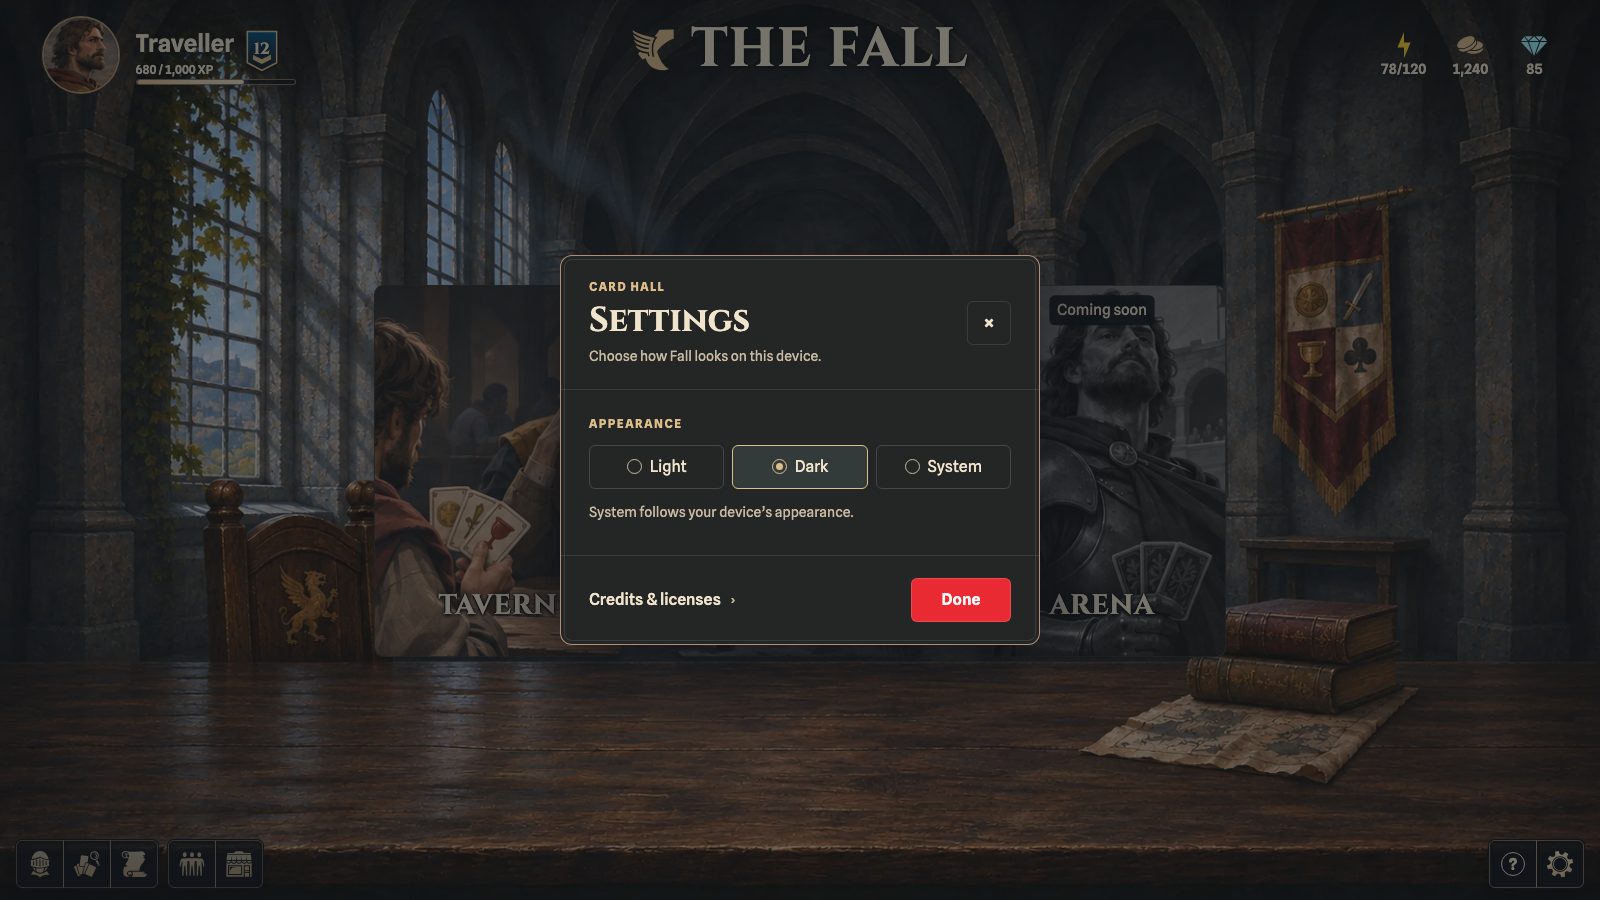
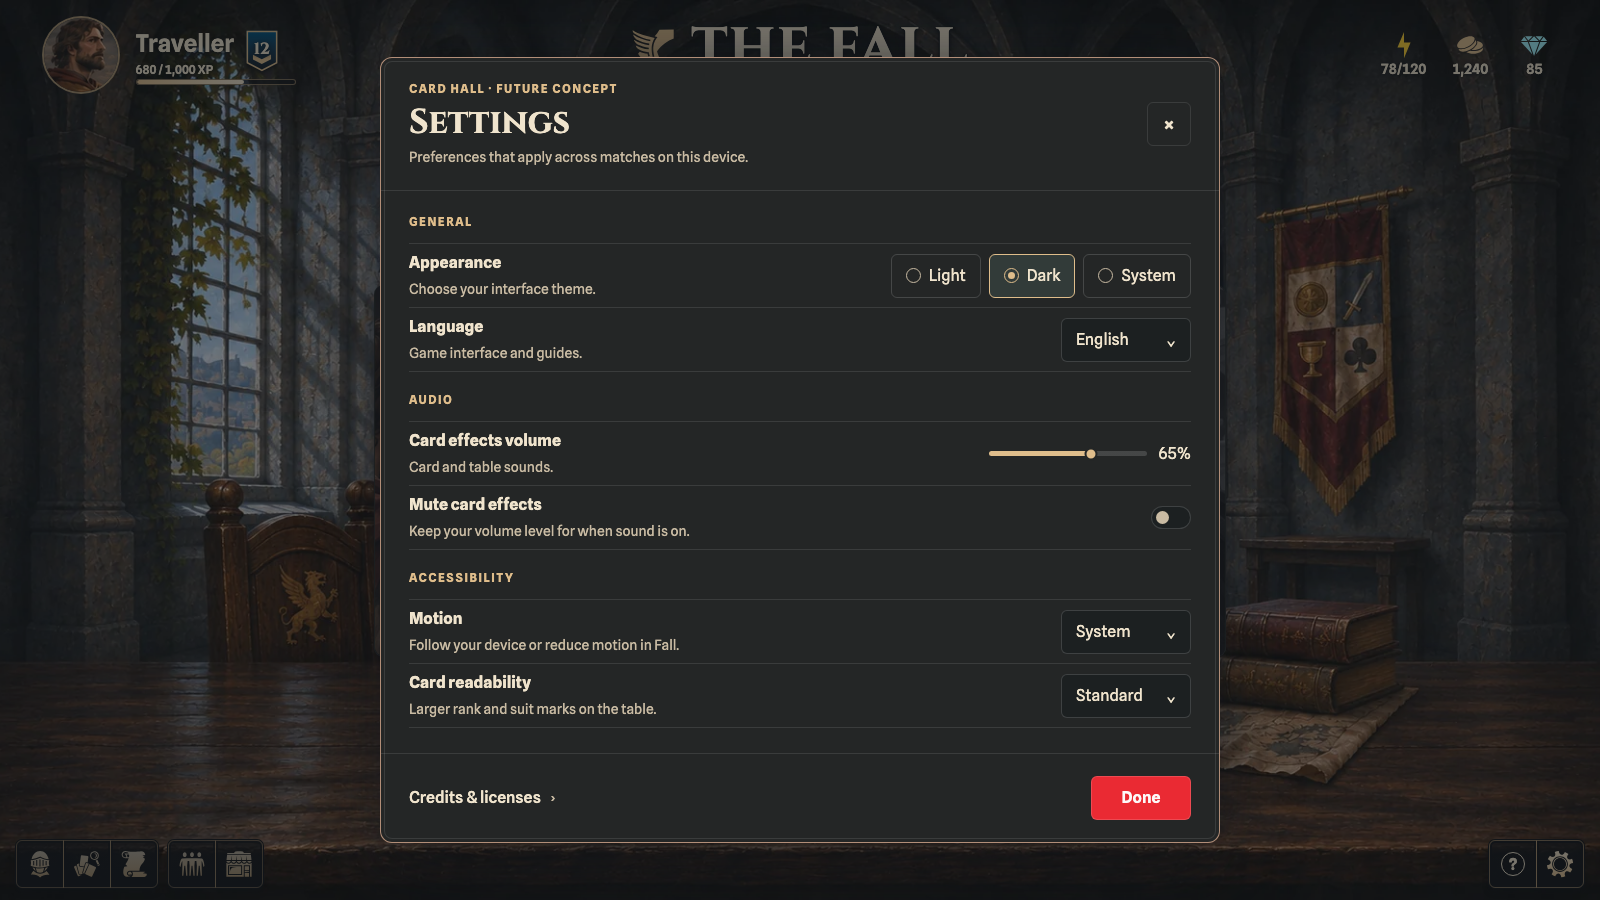
[GHI#104] Compare simple and ornate settings treatments

diff --git a/docs/design/settings/README.md b/docs/design/settings/README.md
@@ -8,9 +8,11 @@ All three images were captured at 1600 × 900 over the existing Card Hall on por
 
 | Study | What it shows |
 | --- | --- |
-| [Simplified Settings](settings-simple.png) | The recommended #104 release layout. One Appearance control with immediate persistence, a small Credits & licenses link, and Done. |
-| [Detailed Settings](settings-detailed.png) | The same modal after enough preferences exist to justify General, Audio, and Accessibility sections. Controls and values in this image illustrate future states. |
+| [Simplified Settings](settings-simple.png) | The flat treatment of General, Audio, and Accessibility, with quiet borders and a compact title. |
+| [Detailed Settings](settings-detailed.png) | The same controls and section order with an engraved brass frame, Wingfoot crest, textured charcoal, recessed controls, and a framed red action. The ornament draws on [the detailed login](../main-menu-research/image-concepts/login-detailed.png) and [the detailed Hall study](../main-menu-research/image-concepts/card-hall-background-2.png). |
 | [Hub Help](hub-help.png) | A Help entry next to the gear, in the slot currently occupied by the disabled Messages shortcut. The open panel links to the rules and Sings reference. |
+
+Both Settings images use the expanded preference set to compare visual style. The #104 release scope still starts with Appearance and Credits & licenses, with the Animation Playground available in development.
 
 ## Game reference study
 
@@ -52,7 +54,7 @@ Move both guide links when the new Help entry ships, in the same change. Issue #
 | **When effects warrant it** | Performance | Consider reduced scene effects or lower render quality if measurements show the Hall or table effects cause slowdowns. Keep adaptive defaults and avoid a desktop-style resolution menu for a responsive web game. |
 | **When online features ship** | Notifications and social visibility | Allow opt-in by notification type once those events exist. Keep profile visibility, account privacy and cloud data controls with the player account. |
 
-Expose only implemented controls. The detailed study shows a plausible first expansion. Keep later ideas in the backlog until the corresponding features exist or user testing establishes a need.
+Expose only implemented controls. Both Settings studies show a plausible first expansion. Keep later ideas in the backlog until the corresponding features exist or user testing establishes a need.
 
 ## Layout, motion, and acceptance
 
